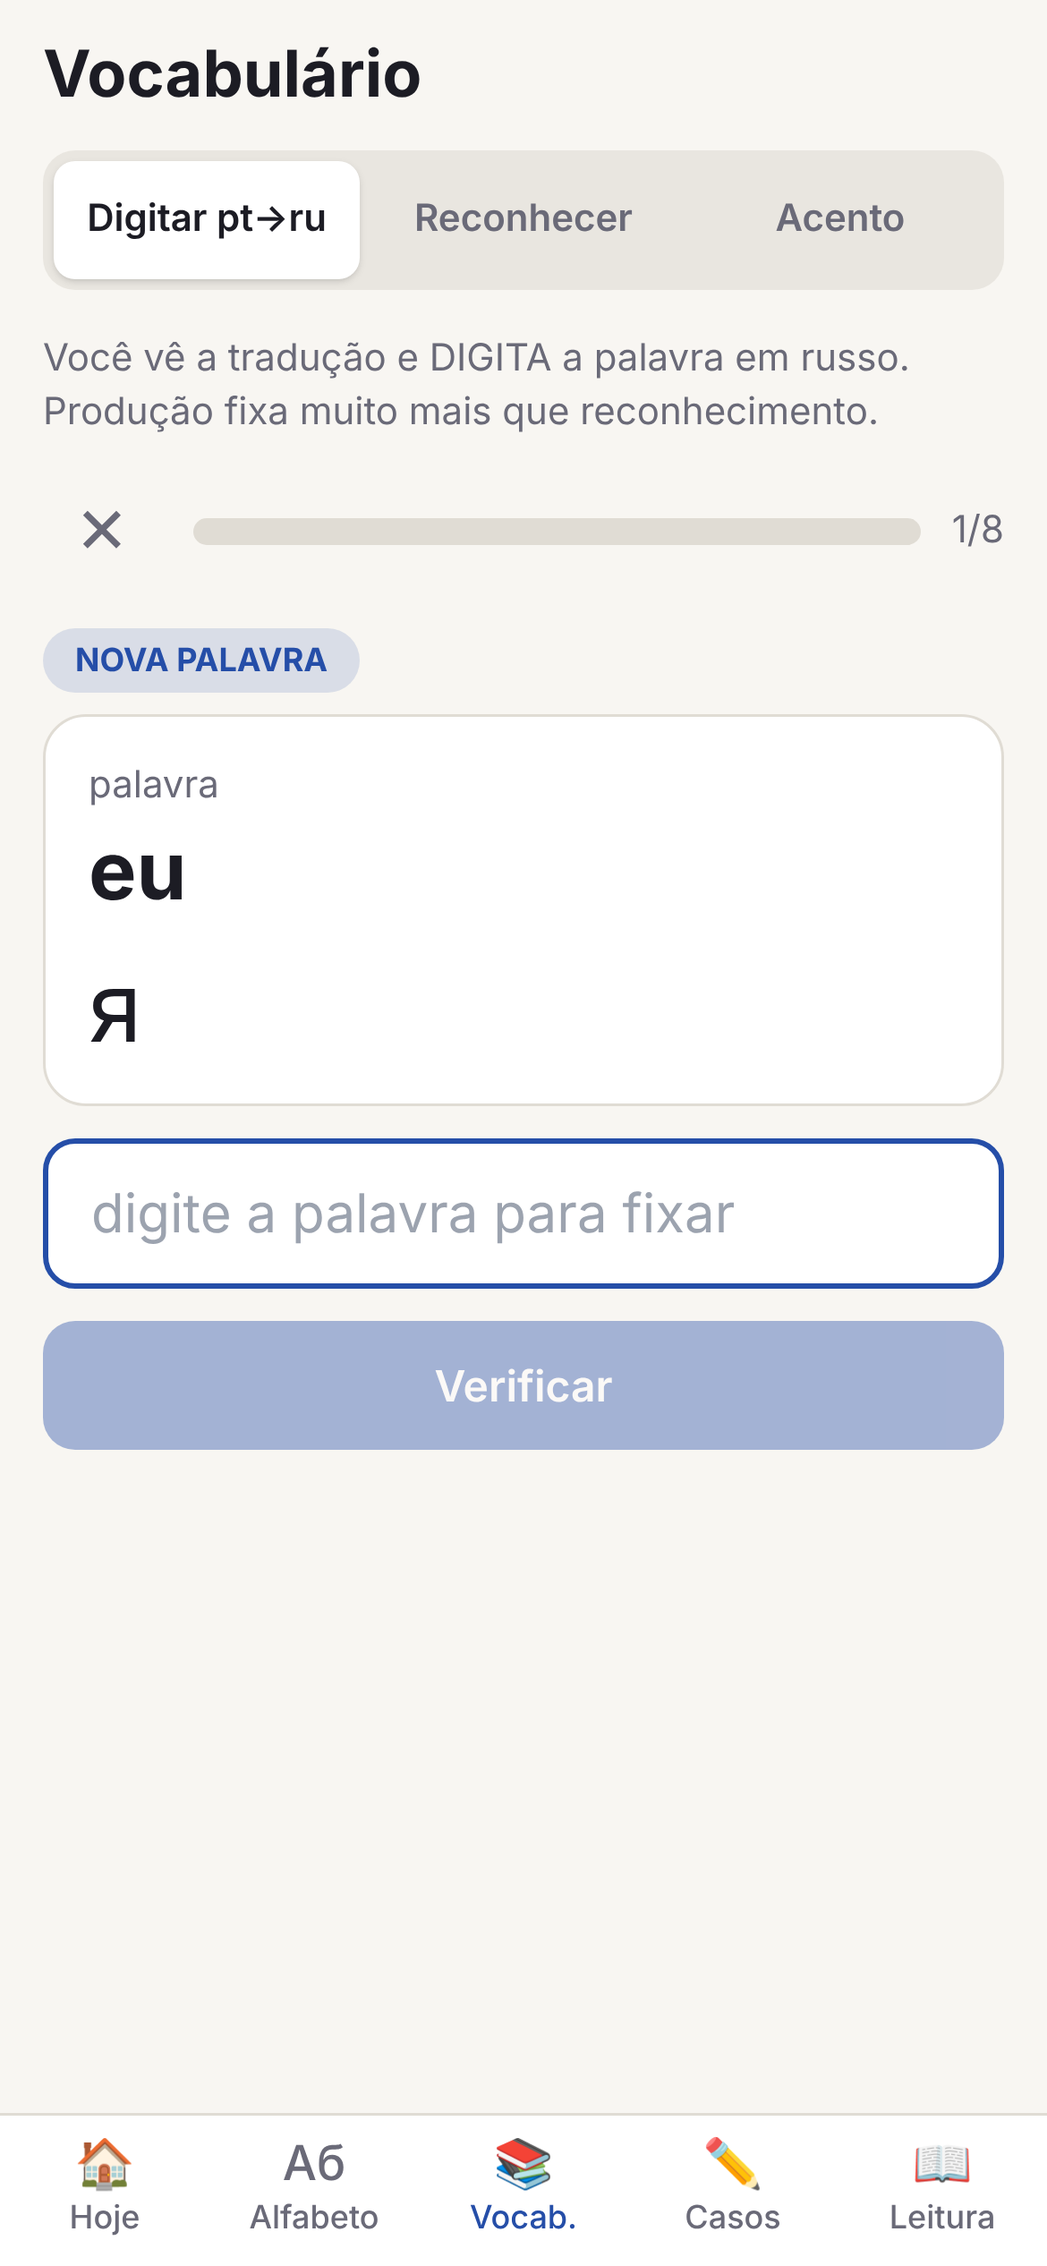
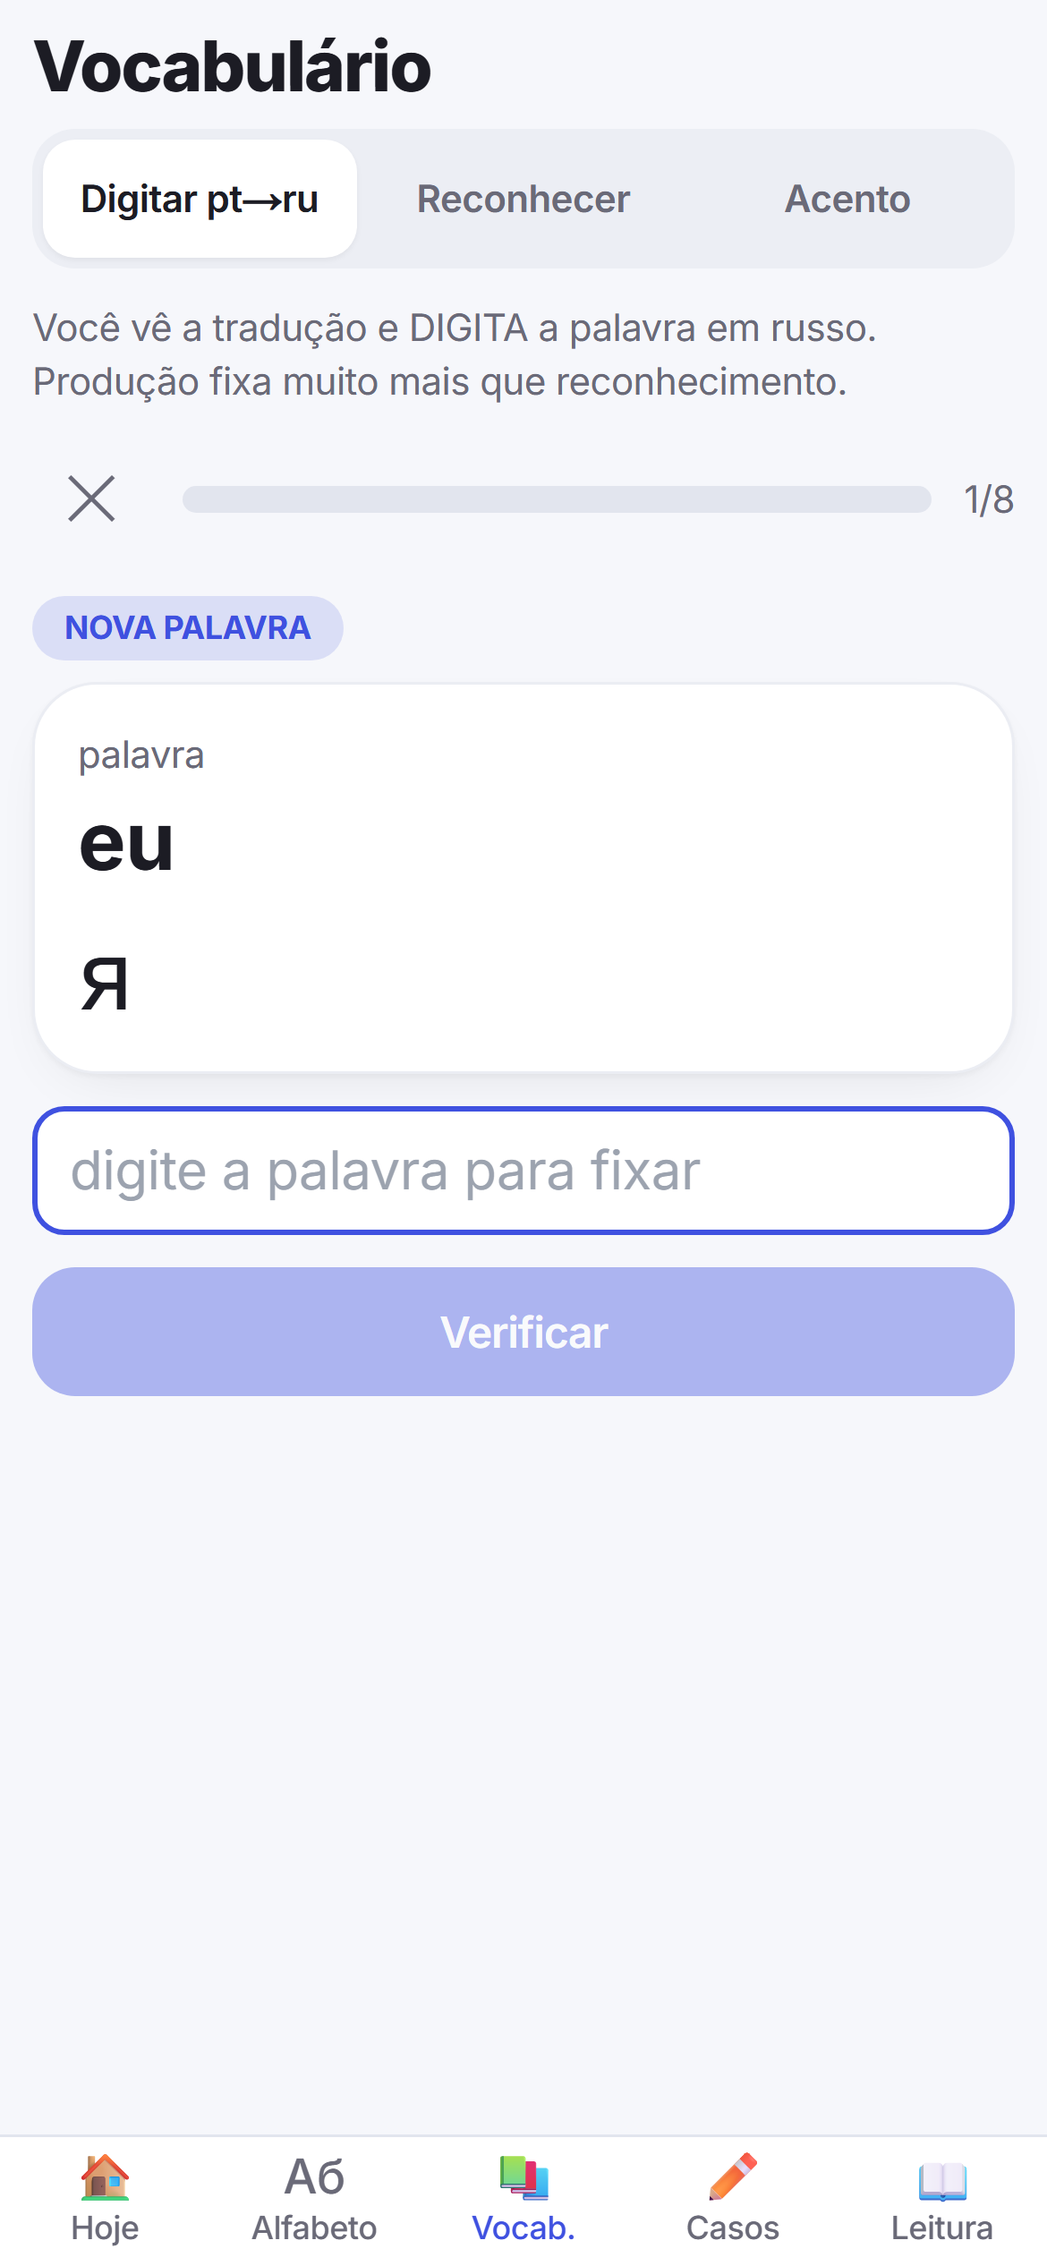
Redesign: Inter + Noto Sans (russo), compact layout, full-page result tint
- Result feedback tints the whole page (red on wrong, green on correct)
- Enter no longer skips the result bar; result scrolls into view
- Compact spacing across the site, modern cards/buttons/tabs
- Fix 'Sobre' touch target and CRLF parsing in content test

diff --git a/src/components/Exercises.tsx b/src/components/Exercises.tsx
@@ -24,11 +24,19 @@ const POS_PT = { noun: 'substantivo', adj: 'adjetivo', verb: 'verbo', other: 'pa
 const GENDER_LABEL = { m: 'masc.', f: 'fem.', n: 'neutro' } as const;
 
 function ResultBar({ ok, easyAllowed, onNext, children }: { ok: boolean; easyAllowed?: boolean; onNext: (easy: boolean) => void; children?: ReactNode }) {
+  const box = useRef<HTMLDivElement>(null);
+  useEffect(() => {
+    box.current?.scrollIntoView({ block: 'nearest' });
+    document.documentElement.dataset.result = ok ? 'ok' : 'bad'; // tinge o fundo da página inteira
+    return () => {
+      delete document.documentElement.dataset.result;
+    };
+  }, [ok]);
   return (
-    <div data-testid="result" className={`mt-4 rounded-2xl border-2 p-4 ${ok ? 'border-good' : 'border-bad'}`}>
-      <p className={`mb-2 text-lg font-bold ${ok ? 'text-good' : 'text-bad'}`}>{ok ? 'Correto!' : 'Ainda não.'}</p>
-      <div className="space-y-2 text-base">{children}</div>
-      <div className="mt-4 flex gap-2">
+    <div ref={box} data-testid="result" className={`mt-3 rounded-2xl border-2 p-3 ${ok ? 'border-good' : 'border-bad'}`}>
+      <p className={`mb-1 text-lg font-bold ${ok ? 'text-good' : 'text-bad'}`}>{ok ? 'Correto!' : 'Ainda não.'}</p>
+      <div className="space-y-1 text-base">{children}</div>
+      <div className="mt-3 flex gap-2">
         {ok && easyAllowed && (
           <Btn variant="ghost" className="flex-1" onClick={() => onNext(true)}>
             Fácil
@@ -98,7 +106,7 @@ export function VocabProdEx({ item, onDone }: ExProps) {
           value={val}
           disabled={res !== null}
           onChange={(e) => setVal(e.target.value)}
-          onKeyDown={(e) => e.key === 'Enter' && res === null && submit()}
+          onKeyDown={(e) => { if (e.key === 'Enter') { e.preventDefault(); if (res === null) submit(); } }}
           placeholder={item.isNew ? 'digite a palavra para fixar' : 'digite em russo'}
           aria-label="Resposta em russo"
         />
@@ -136,7 +144,7 @@ export function VocabRecEx({ item, onDone }: ExProps) {
   return (
     <div>
       <Card className="text-center">
-        <p className="py-4 text-5xl">
+        <p className="py-3 text-5xl">
           <Ru data-testid="prompt">{l.s}</Ru>
         </p>
         {show && (
@@ -148,11 +156,11 @@ export function VocabRecEx({ item, onDone }: ExProps) {
         )}
       </Card>
       {!show ? (
-        <Btn className="mt-4 w-full" onClick={() => setShow(true)} data-testid="show">
+        <Btn className="mt-3 w-full" onClick={() => setShow(true)} data-testid="show">
           Mostrar resposta
         </Btn>
       ) : (
-        <div className="mt-4 grid grid-cols-2 gap-2" data-testid="rate">
+        <div className="mt-3 grid grid-cols-2 gap-2" data-testid="rate">
           <Btn variant="bad" onClick={() => rate(1)}>Errei</Btn>
           <Btn variant="warn" onClick={() => rate(2)}>Difícil</Btn>
           <Btn variant="good" onClick={() => rate(3)}>Acertei</Btn>
@@ -236,7 +244,7 @@ export function GramEx({ item, onDone }: ExProps) {
           value={val}
           disabled={res !== null}
           onChange={(e) => setVal(e.target.value)}
-          onKeyDown={(e) => e.key === 'Enter' && res === null && submit()}
+          onKeyDown={(e) => { if (e.key === 'Enter') { e.preventDefault(); if (res === null) submit(); } }}
           placeholder="digite a forma"
           aria-label="Forma em russo"
         />
@@ -347,7 +355,7 @@ export function ReadEx({ item, onDone }: ExProps) {
               value={val}
               disabled={res !== null}
               onChange={(e) => setVal(e.target.value)}
-              onKeyDown={(e) => e.key === 'Enter' && res === null && submit()}
+              onKeyDown={(e) => { if (e.key === 'Enter') { e.preventDefault(); if (res === null) submit(); } }}
               placeholder={mode === 'type-tr' ? 'ex.: moloko' : 'digite em cirílico'}
             />
           </div>

diff --git a/src/app/page.tsx b/src/app/page.tsx
@@ -45,21 +45,21 @@ export default function Home() {
   return (
     <Page title="Hoje" right={<Link href="/config/" aria-label="Configurações" className="flex min-h-11 min-w-11 items-center justify-center text-2xl">⚙</Link>}>
       {streak.atRisk && (
-        <div role="alert" data-testid="streak-banner" className="mb-3 rounded-2xl bg-warn/20 p-4 text-warn">
+        <div role="alert" data-testid="streak-banner" className="mb-3 rounded-2xl bg-warn/20 p-3 text-warn">
           <b>Ofensiva em risco!</b> Você tem {streak.streak} {streak.streak === 1 ? 'dia' : 'dias'} seguidos — estude hoje para mantê-la.
         </div>
       )}
       {due.length > 0 && (
-        <div data-testid="due-banner" className="mb-3 rounded-2xl bg-brand/15 p-4">
+        <div data-testid="due-banner" className="mb-3 rounded-2xl bg-brand/15 p-3">
           <b>{due.length} {due.length === 1 ? 'cartão devido' : 'cartões devidos'}</b> agora.
-          {next && <Link href={next.href} className="mt-2 flex min-h-12 items-center justify-center rounded-xl bg-brand px-4 font-semibold text-white">Revisar agora</Link>}
+          {next && <Link href={next.href} className="mt-2 flex min-h-12 items-center justify-center rounded-xl bg-brand px-3 font-semibold text-white">Revisar agora</Link>}
         </div>
       )}
       {first && (
         <Card className="mb-3">
           <p className="font-bold">Bem-vindo!</p>
           <p className="mt-1 text-sm text-muted">Comece pelo alfabeto e pelas regras de leitura; depois aprenda palavras (digitando) e treine os casos. Tudo funciona offline.</p>
-          <Link href="/alfabeto/" className="mt-3 flex min-h-12 items-center justify-center rounded-xl bg-brand px-4 font-semibold text-white">Começar pelo alfabeto</Link>
+          <Link href="/alfabeto/" className="mt-3 flex min-h-12 items-center justify-center rounded-xl bg-brand px-3 font-semibold text-white">Começar pelo alfabeto</Link>
         </Card>
       )}
       <div className="grid grid-cols-2 gap-3">
@@ -89,7 +89,7 @@ export default function Home() {
       <ul className="space-y-2">
         {plan.map((p) => (
           <li key={p.kind}>
-            <Link href={p.href} className="flex min-h-14 items-center justify-between rounded-2xl border border-line bg-surface px-4">
+            <Link href={p.href} className="flex min-h-12 items-center justify-between rounded-2xl border border-line bg-surface px-3">
               <span>{p.label}</span>
               <span className="text-sm text-muted">{p.due} rev. · {p.fresh} novos</span>
             </Link>
@@ -125,7 +125,7 @@ export default function Home() {
         )}
       </Card>
       {syncStatus !== 'off' && (
-        <p className="mt-4 text-center text-xs text-muted" data-testid="sync-status">
+        <p className="mt-3 text-center text-xs text-muted" data-testid="sync-status">
           Sync: {syncStatus === 'ok' ? 'em dia' : syncStatus === 'syncing' ? 'sincronizando…' : syncStatus === 'error' ? 'pendente' : 'ativo'} {syncMessage}
         </p>
       )}

diff --git a/src/components/ui.tsx b/src/components/ui.tsx
@@ -14,13 +14,13 @@ export function Btn({
   return (
     <button
       {...p}
-      className={`min-h-12 min-w-12 rounded-xl px-4 text-base font-semibold active:opacity-80 disabled:opacity-40 ${v} ${className}`}
+      className={`min-h-12 min-w-12 rounded-2xl px-4 text-base font-semibold tracking-tight shadow-sm transition active:scale-[0.98] active:opacity-90 disabled:opacity-40 disabled:shadow-none ${v} ${className}`}
     />
   );
 }
 
 export function Card({ children, className = '' }: { children: ReactNode; className?: string }) {
-  return <div className={`rounded-2xl border border-line bg-surface p-4 ${className}`}>{children}</div>;
+  return <div className={`rounded-3xl border border-line/70 bg-surface p-4 shadow-[0_1px_2px_rgb(0_0_0/0.04),0_8px_24px_-12px_rgb(0_0_0/0.12)] ${className}`}>{children}</div>;
 }
 
 export function Bar({ value, max, tone = 'brand' }: { value: number; max: number; tone?: 'brand' | 'good' | 'bad' }) {
@@ -34,9 +34,9 @@ export function Bar({ value, max, tone = 'brand' }: { value: number; max: number
 
 export function Page({ title, children, right }: { title: string; children: ReactNode; right?: ReactNode }) {
   return (
-    <main className="mx-auto w-full max-w-md px-4 pb-32 safe-top">
-      <header className="flex min-h-14 items-center justify-between py-2">
-        <h1 className="text-2xl font-bold">{title}</h1>
+    <main className="mx-auto w-full max-w-md px-3 pb-24 safe-top">
+      <header className="flex min-h-12 items-center justify-between py-1">
+        <h1 className="text-[26px] font-extrabold tracking-tight">{title}</h1>
         {right}
       </header>
       {children}
@@ -48,14 +48,14 @@ export function Tabs<T extends string>({
   value, onChange, items,
 }: { value: T; onChange: (v: T) => void; items: { id: T; label: string }[] }) {
   return (
-    <div role="tablist" className="mb-4 flex gap-1 rounded-xl bg-line/60 p-1">
+    <div role="tablist" className="mb-3 flex gap-1 rounded-2xl bg-line/50 p-1">
       {items.map((it) => (
         <button
           key={it.id}
           role="tab"
           aria-selected={value === it.id}
           onClick={() => onChange(it.id)}
-          className={`min-h-11 flex-1 rounded-lg px-2 text-sm font-semibold ${value === it.id ? 'bg-surface shadow' : 'text-muted'}`}
+          className={`min-h-11 flex-1 rounded-xl px-2 text-sm font-semibold transition ${value === it.id ? 'bg-surface text-ink shadow-sm' : 'text-muted'}`}
         >
           {it.label}
         </button>

diff --git a/src/app/globals.css b/src/app/globals.css
@@ -3,12 +3,12 @@
 @tailwind utilities;
 
 :root {
-  --bg: 248 246 242;
+  --bg: 246 247 251;
   --surface: 255 255 255;
   --ink: 28 28 36;
   --muted: 106 106 120;
-  --line: 224 220 212;
-  --brand: 37 78 168;
+  --line: 226 229 238;
+  --brand: 63 81 224;
   --good: 22 130 74;
   --bad: 200 45 45;
   --warn: 196 120 10;
@@ -16,26 +16,31 @@
 }
 @media (prefers-color-scheme: dark) {
   :root {
-    --bg: 16 17 22;
-    --surface: 28 30 38;
+    --bg: 13 14 20;
+    --surface: 24 26 36;
     --ink: 238 238 244;
     --muted: 150 152 166;
     --line: 52 55 68;
-    --brand: 120 160 240;
+    --brand: 138 160 255;
     --good: 80 200 130;
     --bad: 240 110 110;
     --warn: 240 170 60;
   }
 }
 
-html, body { background: rgb(var(--bg)); color: rgb(var(--ink)); }
+html, body { background: rgb(var(--bg)); color: rgb(var(--ink)); transition: background-color .15s; }
+html[data-result='bad'], html[data-result='bad'] body { background: color-mix(in srgb, rgb(var(--bad)) 20%, rgb(var(--bg))); }
+html[data-result='ok'], html[data-result='ok'] body { background: color-mix(in srgb, rgb(var(--good)) 20%, rgb(var(--bg))); }
 body {
-  font-family: system-ui, -apple-system, 'Segoe UI', Roboto, sans-serif;
+  font-family: var(--font-sans), system-ui, -apple-system, 'Segoe UI', Roboto, sans-serif;
+  font-feature-settings: 'cv11', 'ss03';
+  letter-spacing: -0.011em;
+  -webkit-font-smoothing: antialiased;
   -webkit-tap-highlight-color: transparent;
   overscroll-behavior-y: none;
 }
 button, a { touch-action: manipulation; }
-.ru { font-feature-settings: 'locl'; letter-spacing: 0.01em; }
+.ru { font-family: var(--font-ru), 'Segoe UI', sans-serif; font-feature-settings: 'locl', 'mark', 'mkmk'; letter-spacing: 0; font-kerning: normal; }
 .safe-top { padding-top: env(safe-area-inset-top); }
 .safe-bottom { padding-bottom: env(safe-area-inset-bottom); }
 input, select, textarea { font-size: 16px; } /* evita zoom automático no iOS */

diff --git a/src/app/config/page.tsx b/src/app/config/page.tsx
@@ -6,7 +6,7 @@ import { Btn, Card, Page } from '@/components/ui';
 
 function Row({ label, hint, children }: { label: string; hint?: string; children: ReactNode }) {
   return (
-    <label className="flex min-h-14 items-center justify-between gap-3 py-2">
+    <label className="flex min-h-12 items-center justify-between gap-3 py-2">
       <span>
         <span className="block font-medium">{label}</span>
         {hint && <span className="block text-xs text-muted">{hint}</span>}
@@ -37,7 +37,7 @@ export default function ConfigPage() {
   };
 
   return (
-    <Page title="Configurações" right={<Link href="/sobre/" className="flex min-h-11 items-center text-brand">Sobre</Link>}>
+    <Page title="Configurações" right={<Link href="/sobre/" className="flex min-h-11 min-w-11 items-center justify-center text-brand">Sobre</Link>}>
       <Card>
         <Row label="Meta diária" hint="revisões por dia">
           <input aria-label="Meta diária" type="number" inputMode="numeric" min={1} max={500} className={numCls} value={settings.dailyGoal}
@@ -90,7 +90,7 @@ export default function ConfigPage() {
           {syncStatus === 'off' ? 'Desligada.' : syncStatus === 'ok' ? `Em dia ${syncMessage}` : syncStatus === 'error' ? `Erro: ${syncMessage}` : syncStatus === 'syncing' ? 'Sincronizando…' : 'Ativa.'}
         </p>
       </Card>
-      <p className="mt-6 text-center text-xs text-muted">Conteúdo v{ix.content.v} · {ix.content.lemmas.length} palavras · {ix.content.sentences.length} frases</p>
+      <p className="mt-4 text-center text-xs text-muted">Conteúdo v{ix.content.v} · {ix.content.lemmas.length} palavras · {ix.content.sentences.length} frases</p>
     </Page>
   );
 }

diff --git a/src/app/layout.tsx b/src/app/layout.tsx
@@ -1,9 +1,14 @@
 import type { Metadata, Viewport } from 'next';
 import type { ReactNode } from 'react';
+import { Inter, Noto_Sans } from 'next/font/google';
 import { Providers } from '@/components/Providers';
 import { SwRegister } from '@/components/SwRegister';
 import { TabBar } from '@/components/TabBar';
 import './globals.css';
+
+const inter = Inter({ subsets: ['latin', 'cyrillic'], display: 'swap', variable: '--font-sans' });
+// russo: fonte com posicionamento correto do acento combinante (U+0301)
+const noto = Noto_Sans({ subsets: ['latin', 'cyrillic'], display: 'swap', variable: '--font-ru', weight: ['400', '600', '700'] });
 
 export const metadata: Metadata = {
   title: 'Russo — casos, não decoreba',
@@ -18,14 +23,14 @@ export const viewport: Viewport = {
   initialScale: 1,
   viewportFit: 'cover',
   themeColor: [
-    { media: '(prefers-color-scheme: light)', color: '#f8f6f2' },
-    { media: '(prefers-color-scheme: dark)', color: '#101116' },
+    { media: '(prefers-color-scheme: light)', color: '#f6f7fb' },
+    { media: '(prefers-color-scheme: dark)', color: '#0d0e14' },
   ],
 };
 
 export default function RootLayout({ children }: { children: ReactNode }) {
   return (
-    <html lang="pt-BR">
+    <html lang="pt-BR" className={`${inter.variable} ${noto.variable}`}>
       <body>
         <Providers>
           {children}

diff --git a/src/app/leitura/page.tsx b/src/app/leitura/page.tsx
@@ -31,7 +31,7 @@ function Reader({ text, onBack }: { text: TextDoc; onBack: () => void }) {
         <span className="text-muted">({cov.known}/{cov.words} palavras) · {b.label}</span>
       </p>
       <Card>
-        <div className="space-y-4 text-2xl leading-loose">
+        <div className="space-y-3 text-2xl leading-loose">
           {text.sentences.map((id) => {
             const s = ix.sentence.get(id)!;
             return (
@@ -103,7 +103,7 @@ export default function ReadingPage() {
               const b = BAND[band(cov.pct)];
               return (
                 <li key={t.id}>
-                  <button onClick={() => setOpen(t)} data-testid="text-item" className="flex min-h-16 w-full items-center justify-between rounded-2xl border border-line bg-surface p-4 text-left">
+                  <button onClick={() => setOpen(t)} data-testid="text-item" className="flex min-h-16 w-full items-center justify-between rounded-2xl border border-line bg-surface p-3 text-left">
                     <span>
                       <span className="block font-semibold">{t.title}</span>
                       <span className="text-sm text-muted">{t.sentences.length} frases · {cov.words} palavras</span>

diff --git a/src/app/alfabeto/page.tsx b/src/app/alfabeto/page.tsx
@@ -41,14 +41,14 @@ function Letters() {
             key={l.c}
             onClick={() => setSel(l.c)}
             aria-pressed={sel === l.c}
-            className={`min-h-14 rounded-xl border text-center ${sel === l.c ? 'border-brand bg-brand/15' : 'border-line bg-surface'}`}
+            className={`min-h-12 rounded-xl border text-center ${sel === l.c ? 'border-brand bg-brand/15' : 'border-line bg-surface'}`}
           >
             <Ru className="block text-xl font-semibold leading-tight">{l.c.toUpperCase()} {l.c}</Ru>
             <span className="block text-[11px] text-muted">{l.c === 'е' ? 'ye/e' : transliterate(l.c) || '—'}</span>
           </button>
         ))}
       </div>
-      <Card className="mt-4" >
+      <Card className="mt-3" >
         <p className="text-5xl"><Ru>{sel.toUpperCase()} {sel}</Ru></p>
         <p className="mt-1 text-lg" data-testid="letter-sound">{info.sound}</p>
         <p className="mt-1 text-sm text-muted">transliteração: <b>{sel === 'е' ? 'ye (início/após vogal) · e' : transliterate(sel) || '(sinal)'}</b></p>

diff --git a/src/components/Practice.tsx b/src/components/Practice.tsx
@@ -48,7 +48,7 @@ export function Practice({ kind, focus = 'all', empty }: { kind: CardKind; focus
       {queue.length === 0 ? (
         <p className="mt-3 text-muted">{empty ?? 'Nada pendente agora. Volte mais tarde — ou aumente os novos por dia em Configurações.'}</p>
       ) : (
-        <Btn className="mt-4 w-full" data-testid="start" onClick={() => setSession(queue.slice(0, ROUND))}>
+        <Btn className="mt-3 w-full" data-testid="start" onClick={() => setSession(queue.slice(0, ROUND))}>
           Começar ({Math.min(queue.length, ROUND)})
         </Btn>
       )}

diff --git a/src/components/TabBar.tsx b/src/components/TabBar.tsx
@@ -25,7 +25,7 @@ export function TabBar() {
               <Link
                 href={t.href}
                 aria-current={active ? 'page' : undefined}
-                className={`flex min-h-14 flex-col items-center justify-center gap-0.5 text-xs font-medium ${active ? 'text-brand' : 'text-muted'}`}
+                className={`flex min-h-12 flex-col items-center justify-center gap-0.5 text-xs font-medium ${active ? 'text-brand' : 'text-muted'}`}
               >
                 <span aria-hidden className="text-lg leading-none">{t.icon}</span>
                 {t.label}

diff --git a/src/components/TypeInput.tsx b/src/components/TypeInput.tsx
@@ -16,7 +16,7 @@ export const TypeInput = forwardRef<HTMLInputElement, InputHTMLAttributes<HTMLIn
         spellCheck={false}
         enterKeyHint="done"
         {...p}
-        className={`min-h-14 w-full rounded-xl border-2 border-line bg-surface px-4 text-xl outline-none focus:border-brand ${className}`}
+        className={`min-h-12 w-full rounded-xl border-2 border-line bg-surface px-3 text-xl outline-none focus:border-brand ${className}`}
       />
     );
   },

diff --git a/tests/content.test.ts b/tests/content.test.ts
@@ -10,7 +10,7 @@ const ix = indexContent(content);
 
 // ---- parser INDEPENDENTE do snapshot de origem (não reutiliza o código do pipeline)
 function tsv(path: string) {
-  const [head, ...lines] = readFileSync(path, 'utf8').split('\n').filter(Boolean);
+  const [head, ...lines] = readFileSync(path, 'utf8').split(/\r?\n/).filter(Boolean);
   const cols = head.split('\t');
   return lines.map((l) => Object.fromEntries(l.split('\t').map((c, i) => [cols[i], c])));
 }
